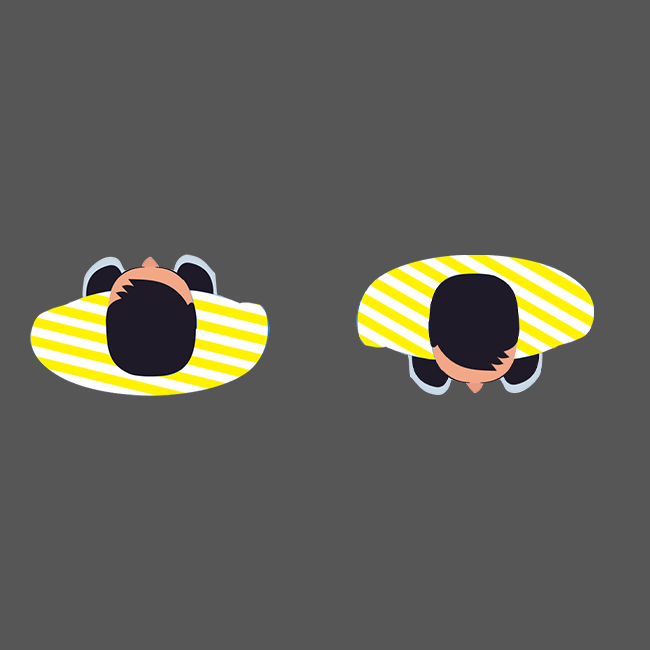
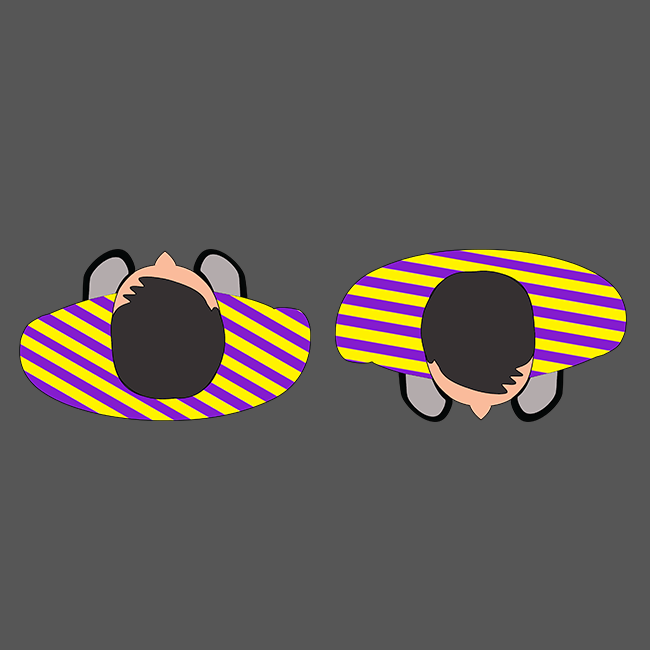
Changed the example photos of the stimuli

Changed region(s): [[0.0308, 0.3692, 0.9846, 0.6462]]

diff --git a/src/js/core/params.js b/src/js/core/params.js
@@ -10,7 +10,7 @@ var runIntro = true;
 var runInstr = true;
 var runExpt = true;
 var runClose = true;
-var runPreload = false;
+var runPreload = true;
 
 // Defining Core Variables that remain constant
 // var PRESTIM_DISP_TIME = 800;